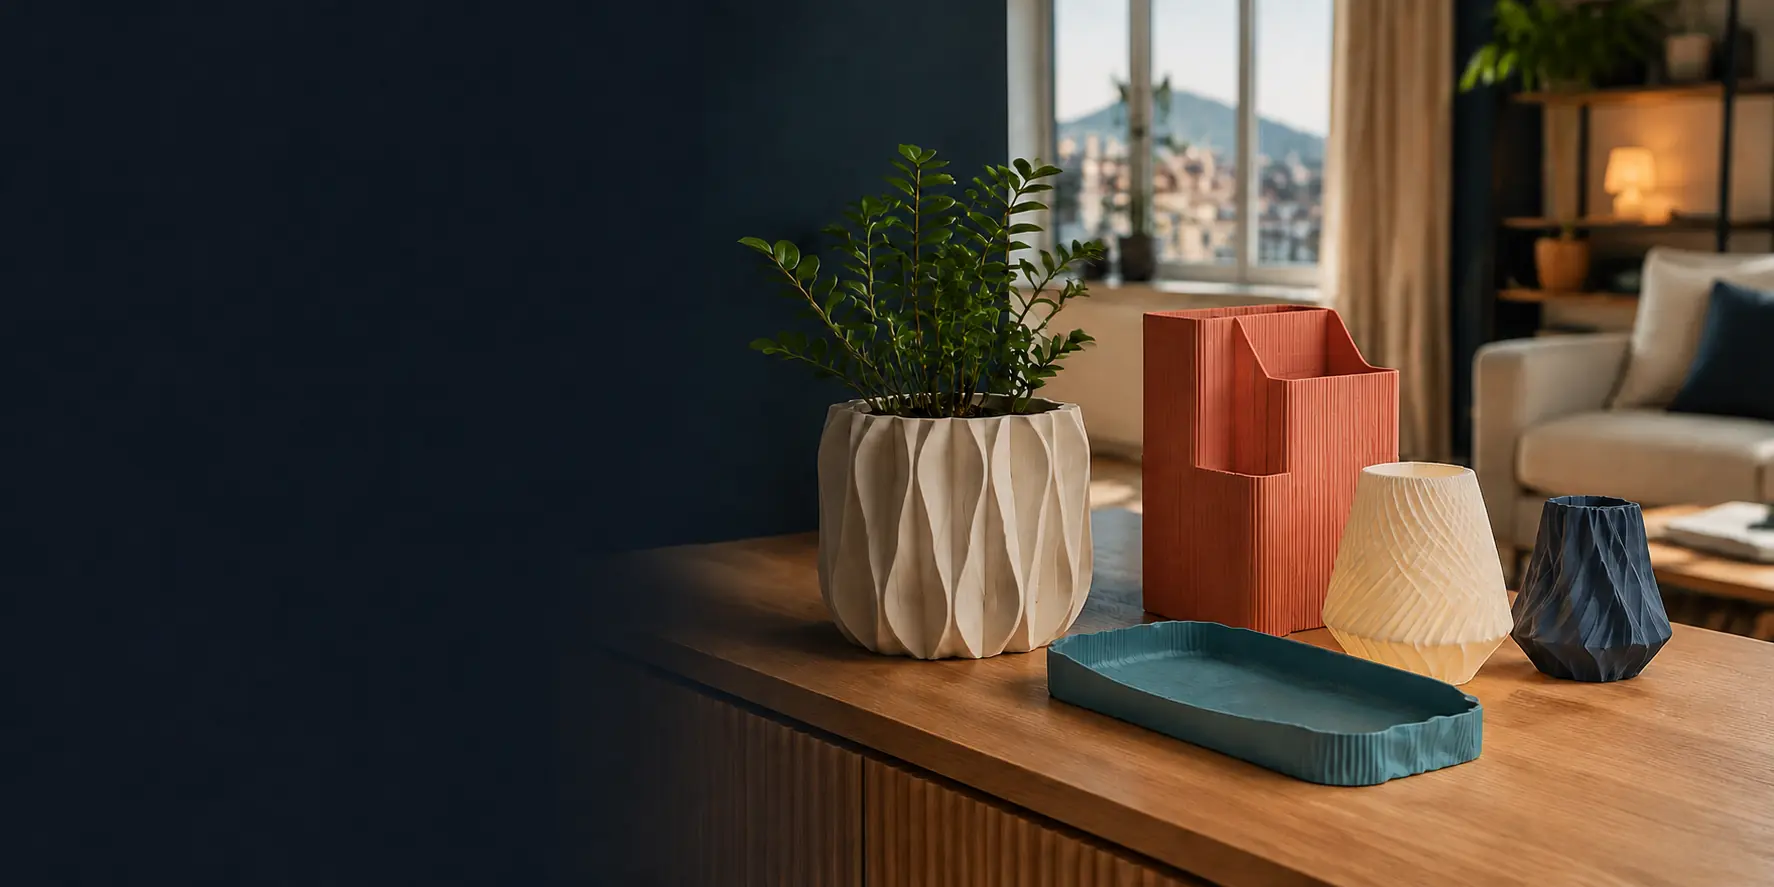
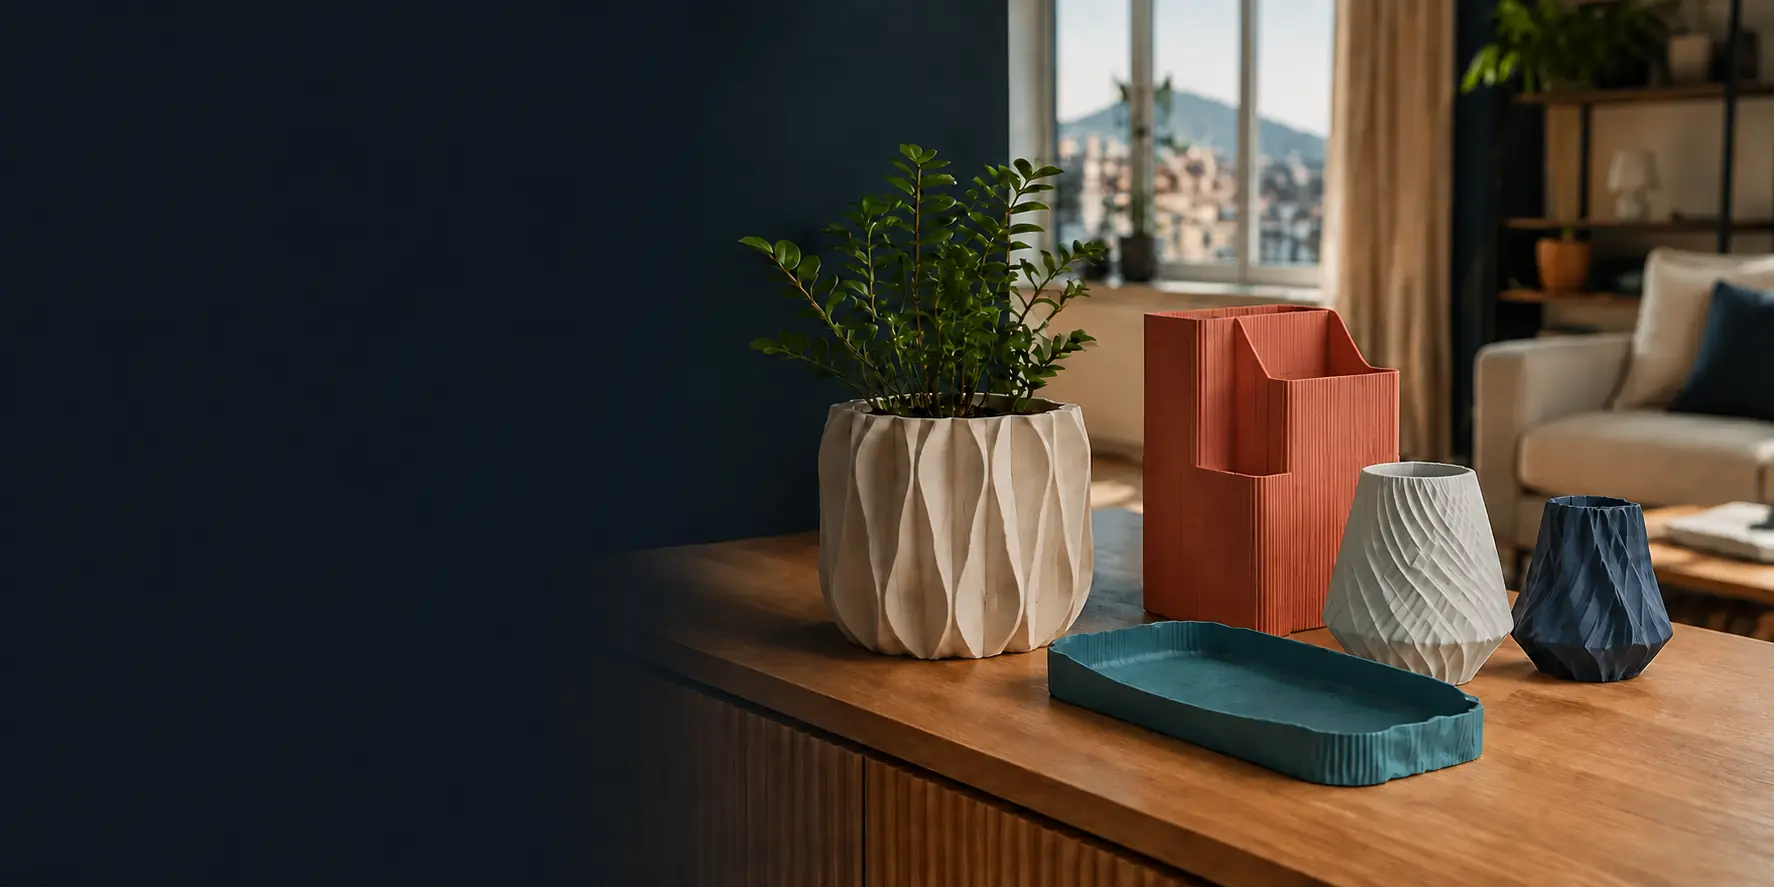
Add homepage category poster carousel

diff --git a/components/home/HomeCategoryHero.tsx b/components/home/HomeCategoryHero.tsx
@@ -2,55 +2,286 @@
 
 import Image from "next/image";
 import Link from "next/link";
-import { useId } from "react";
-import { ArrowRight } from "lucide-react";
+import { useCallback, useEffect, useId, useRef, useState } from "react";
+import { ArrowRight, ChevronLeft, ChevronRight } from "lucide-react";
 import { useLanguage } from "@/components/LanguageProvider";
 
-const featuredCategoryHref = "/shop?category=household";
+type CategoryPoster = {
+  slug: string;
+  image: string;
+  titleKa: string;
+  titleEn: string;
+};
+
+const categoryPosters: CategoryPoster[] = [
+  {
+    slug: "household",
+    image: "/homepage/household-category-hero.webp",
+    titleKa: "საყოფაცხოვრებო ნივთები ყოველდღიური ცხოვრებისთვის",
+    titleEn: "Household objects for everyday life",
+  },
+  {
+    slug: "art",
+    image: "/homepage/art-category-hero.webp",
+    titleKa: "ხელოვნება შენი სივრცის გასაცოცხლებლად",
+    titleEn: "Art to bring your space to life",
+  },
+  {
+    slug: "education",
+    image: "/homepage/education-category-hero.webp",
+    titleKa: "სასწავლო მოდელები აღმოჩენისა და სწავლისთვის",
+    titleEn: "Learning models for discovery and understanding",
+  },
+  {
+    slug: "fashion",
+    image: "/homepage/fashion-category-hero.webp",
+    titleKa: "აქსესუარები გამორჩეული სტილისთვის",
+    titleEn: "Accessories for a distinctive style",
+  },
+  {
+    slug: "hobbies-diy",
+    image: "/homepage/hobbies-diy-category-hero.webp",
+    titleKa: "ჰობისა და DIY იდეების გასაცოცხლებლად",
+    titleEn: "Bring hobby and DIY ideas to life",
+  },
+  {
+    slug: "miniatures",
+    image: "/homepage/miniatures-category-hero.webp",
+    titleKa: "მინიატიურები დიდი ისტორიებისთვის",
+    titleEn: "Miniatures for big stories",
+  },
+  {
+    slug: "props-cosplay",
+    image: "/homepage/props-cosplay-category-hero.webp",
+    titleKa: "რეკვიზიტები შენი პერსონაჟის გასაცოცხლებლად",
+    titleEn: "Props that bring your character to life",
+  },
+  {
+    slug: "tools",
+    image: "/homepage/tools-category-hero.webp",
+    titleKa: "პრაქტიკული ხელსაწყოები საქმის გასამარტივებლად",
+    titleEn: "Practical tools to make every task easier",
+  },
+  {
+    slug: "toys-games",
+    image: "/homepage/toys-games-category-hero.webp",
+    titleKa: "სათამაშოები მეტი ფანტაზიისა და გართობისთვის",
+    titleEn: "Toys and games for imaginative play",
+  },
+  {
+    slug: "generative-3d-model",
+    image: "/homepage/generative-3d-model-category-hero.webp",
+    titleKa: "გენერაციული 3D ფორმები უნიკალური სივრცისთვის",
+    titleEn: "Generative 3D forms for a unique space",
+  },
+  {
+    slug: "3d-printer",
+    image: "/homepage/3d-printer-category-hero.webp",
+    titleKa: "3D პრინტერის აქსესუარები უკეთესი ბეჭდვისთვის",
+    titleEn: "3D printer accessories for better printing",
+  },
+];
 
 export function HomeCategoryHero() {
   const { language } = useLanguage();
-  const headingId = useId();
+  const carouselId = useId();
+  const trackRef = useRef<HTMLUListElement>(null);
+  const activeIndexRef = useRef(0);
+  const requestedIndexRef = useRef<number | null>(null);
+  const [activeIndex, setActiveIndex] = useState(0);
   const georgian = language === "ka";
+  const activePoster = categoryPosters[activeIndex] ?? categoryPosters[0];
+  const activeTitle = georgian ? activePoster.titleKa : activePoster.titleEn;
+
+  const scrollToPoster = useCallback((index: number) => {
+    const track = trackRef.current;
+    if (!track) return;
+
+    const nextIndex = Math.max(0, Math.min(categoryPosters.length - 1, index));
+    const reduceMotion = window.matchMedia("(prefers-reduced-motion: reduce)").matches;
+    requestedIndexRef.current = nextIndex;
+    track.scrollTo({
+      left: nextIndex * track.clientWidth,
+      behavior: reduceMotion ? "auto" : "smooth",
+    });
+  }, []);
+
+  const moveByPoster = useCallback((direction: -1 | 1) => {
+    const currentIndex = requestedIndexRef.current ?? activeIndexRef.current;
+    scrollToPoster(currentIndex + direction);
+  }, [scrollToPoster]);
+
+  const updateActivePoster = useCallback(() => {
+    const track = trackRef.current;
+    if (!track || track.clientWidth === 0) return;
+
+    const nextIndex = Math.max(
+      0,
+      Math.min(categoryPosters.length - 1, Math.round(track.scrollLeft / track.clientWidth)),
+    );
+    activeIndexRef.current = nextIndex;
+    setActiveIndex(nextIndex);
+
+    const requestedIndex = requestedIndexRef.current;
+    if (
+      requestedIndex !== null
+      && Math.abs(track.scrollLeft - requestedIndex * track.clientWidth) < 2
+    ) {
+      requestedIndexRef.current = null;
+    }
+  }, []);
+
+  useEffect(() => {
+    const track = trackRef.current;
+    if (!track || typeof ResizeObserver === "undefined") return;
+
+    let previousWidth = track.clientWidth;
+    const observer = new ResizeObserver(() => {
+      const nextWidth = track.clientWidth;
+      if (nextWidth === 0 || nextWidth === previousWidth) return;
+
+      previousWidth = nextWidth;
+      requestedIndexRef.current = null;
+      track.scrollTo({
+        left: activeIndexRef.current * nextWidth,
+        behavior: "auto",
+      });
+    });
+
+    observer.observe(track);
+    return () => observer.disconnect();
+  }, []);
 
   return (
-    <section aria-labelledby={headingId}>
-      <Link
-        href={featuredCategoryHref}
-        aria-label={georgian ? "საყოფაცხოვრებო პროდუქტების ნახვა" : "Shop Household products"}
-        className="group relative block h-[380px] overflow-hidden bg-[#111622] text-white focus-visible:outline-none focus-visible:ring-2 focus-visible:ring-inset focus-visible:ring-hooma-secondary sm:h-[420px] lg:h-[480px]"
+    <section
+      aria-label={georgian ? "პროდუქტების კატეგორიები" : "Product categories"}
+      aria-roledescription={georgian ? "კარუსელი" : "carousel"}
+      className="relative bg-[#111622]"
+    >
+      <h1 className="sr-only">
+        {georgian ? "Hooma — 3D-დაბეჭდილი პროდუქტები" : "Hooma — 3D-printed products"}
+      </h1>
+      <ul
+        id={carouselId}
+        ref={trackRef}
+        onScroll={updateActivePoster}
+        onPointerDown={() => { requestedIndexRef.current = null; }}
+        onWheel={() => { requestedIndexRef.current = null; }}
+        className="hide-scrollbar flex snap-x snap-mandatory overflow-x-auto"
       >
-        <Image
-          src="/homepage/household-category-hero.webp"
-          alt=""
-          fill
-          priority
-          sizes="100vw"
-          className="object-cover object-[45%_center] transition duration-700 group-hover:scale-[1.015] sm:object-center xl:object-contain xl:object-right"
-        />
-        <span aria-hidden="true" className="absolute inset-0 bg-gradient-to-r from-[#0d1929]/95 via-[#0d1929]/80 to-[#0d1929]/50 sm:via-[#0d1929]/75 sm:to-[#0d1929]/5" />
-        <span aria-hidden="true" className="absolute inset-x-0 bottom-0 h-32 bg-gradient-to-t from-[#FFF1EA] via-[#FFF1EA]/35 to-transparent" />
+        {categoryPosters.map((poster, index) => {
+          const title = georgian ? poster.titleKa : poster.titleEn;
 
-        <div className="relative mx-auto flex h-full max-w-[1480px] items-center px-6 pb-12 sm:px-10 sm:pb-16 lg:px-14">
-          <div className="max-w-[19rem] sm:max-w-[36rem]">
-            <p className="text-[11px] font-semibold uppercase tracking-[0.22em] text-hooma-secondary sm:text-xs">
-              {georgian ? "რჩეული კატეგორია" : "Featured category"}
-            </p>
-            <h1 id={headingId} className="mt-3 text-3xl font-semibold leading-[1.08] tracking-tight text-white sm:text-4xl lg:text-5xl">
-              {georgian ? "საყოფაცხოვრებო ნივთები ყოველდღიური სივრცისთვის" : "Household objects for everyday spaces"}
-            </h1>
-            <p className="mt-4 max-w-lg text-sm leading-6 text-white/70 sm:text-base sm:leading-7">
-              {georgian
-                ? "დეკორი და პრაქტიკული ნივთები სახლისთვის — თითოეული მზადდება შენი შეკვეთისთვის."
-                : "Décor and practical objects for home — each made to order for you."}
-            </p>
-            <span className="mt-6 inline-flex items-center gap-2 rounded-full bg-white px-5 py-3 text-sm font-semibold text-hooma-text shadow-lg transition group-hover:bg-hooma-secondary group-focus-visible:bg-hooma-secondary">
-              {georgian ? "საყოფაცხოვრებო პროდუქტების ნახვა" : "Shop Household"}
-              <ArrowRight size={16} aria-hidden="true" />
-            </span>
-          </div>
+          return (
+            <li
+              key={poster.slug}
+              aria-label={`${index + 1} / ${categoryPosters.length}`}
+              aria-roledescription={georgian ? "სლაიდი" : "slide"}
+              aria-hidden={index !== activeIndex}
+              className="w-full shrink-0 snap-center"
+            >
+              <Link
+                href={`/shop?category=${poster.slug}`}
+                aria-label={title}
+                tabIndex={index === activeIndex ? 0 : -1}
+                className="group relative block h-[380px] overflow-hidden bg-[#111622] text-white focus-visible:outline-none focus-visible:ring-2 focus-visible:ring-inset focus-visible:ring-hooma-secondary sm:h-[420px] lg:h-[480px]"
+              >
+                <Image
+                  src={poster.image}
+                  alt=""
+                  fill
+                  priority={index === 0}
+                  sizes="100vw"
+                  className="object-cover object-[45%_center] transition duration-700 group-hover:scale-[1.015] sm:object-center xl:object-contain xl:object-right"
+                />
+                <span
+                  aria-hidden="true"
+                  className="absolute inset-0 bg-gradient-to-r from-[#0d1929]/95 via-[#0d1929]/80 to-[#0d1929]/50 sm:via-[#0d1929]/75 sm:to-[#0d1929]/5"
+                />
+                <span
+                  aria-hidden="true"
+                  className="absolute inset-x-0 bottom-0 h-32 bg-gradient-to-t from-[#FFF1EA] via-[#FFF1EA]/35 to-transparent"
+                />
+
+                <div className="relative mx-auto flex h-full max-w-[1480px] items-center px-6 pb-12 sm:px-10 sm:pb-16 lg:px-14">
+                  <div className="max-w-[19rem] sm:max-w-[38rem]">
+                    <h2 className="text-3xl font-semibold leading-[1.08] tracking-tight text-white sm:text-4xl lg:text-5xl">
+                      {title}
+                    </h2>
+                    <span
+                      aria-hidden="true"
+                      className="mt-6 hidden size-11 items-center justify-center rounded-full bg-white text-hooma-text shadow-lg transition group-hover:bg-hooma-secondary group-focus-visible:bg-hooma-secondary sm:inline-flex"
+                    >
+                      <ArrowRight size={18} />
+                    </span>
+                  </div>
+                </div>
+              </Link>
+            </li>
+          );
+        })}
+      </ul>
+
+      <span className="sr-only" aria-live="polite" aria-atomic="true">
+        {activeTitle} — {activeIndex + 1} / {categoryPosters.length}
+      </span>
+
+      <div className="pointer-events-none absolute inset-x-0 bottom-14 z-20 mx-auto flex max-w-[1480px] items-center justify-between px-4 sm:bottom-16 sm:px-6 lg:px-8">
+        <div className="pointer-events-auto flex gap-2">
+          <button
+            type="button"
+            onClick={() => moveByPoster(-1)}
+            disabled={activeIndex === 0}
+            aria-controls={carouselId}
+            aria-label={georgian ? "წინა კატეგორია" : "Previous category"}
+            className="inline-flex size-11 items-center justify-center rounded-full border border-white/20 bg-[#111622]/75 text-white shadow-lg backdrop-blur transition hover:bg-[#111622] focus-visible:outline-none focus-visible:ring-2 focus-visible:ring-hooma-secondary disabled:cursor-not-allowed disabled:opacity-35"
+          >
+            <ChevronLeft size={20} aria-hidden="true" />
+          </button>
+          <button
+            type="button"
+            onClick={() => moveByPoster(1)}
+            disabled={activeIndex === categoryPosters.length - 1}
+            aria-controls={carouselId}
+            aria-label={georgian ? "შემდეგი კატეგორია" : "Next category"}
+            className="inline-flex size-11 items-center justify-center rounded-full border border-white/20 bg-[#111622]/75 text-white shadow-lg backdrop-blur transition hover:bg-[#111622] focus-visible:outline-none focus-visible:ring-2 focus-visible:ring-hooma-secondary disabled:cursor-not-allowed disabled:opacity-35"
+          >
+            <ChevronRight size={20} aria-hidden="true" />
+          </button>
         </div>
-      </Link>
+
+        <div
+          aria-hidden="true"
+          className="pointer-events-auto rounded-full bg-[#111622]/70 px-3 py-2 text-xs font-semibold tabular-nums text-white shadow-lg backdrop-blur sm:hidden"
+        >
+          {activeIndex + 1} / {categoryPosters.length}
+        </div>
+
+        <div className="pointer-events-auto hidden items-center rounded-full bg-[#111622]/70 px-2 py-1 shadow-lg backdrop-blur sm:flex">
+          {categoryPosters.map((poster, index) => (
+            <button
+              key={poster.slug}
+              type="button"
+              onClick={() => scrollToPoster(index)}
+              aria-controls={carouselId}
+              aria-current={index === activeIndex ? "true" : undefined}
+              aria-label={
+                georgian
+                  ? `${poster.titleKa} — სლაიდზე გადასვლა`
+                  : `Go to ${poster.titleEn}`
+              }
+              className="inline-flex size-6 items-center justify-center rounded-full focus-visible:outline-none focus-visible:ring-2 focus-visible:ring-hooma-secondary"
+            >
+              <span
+                aria-hidden="true"
+                className={`h-2 rounded-full transition-all ${
+                  index === activeIndex ? "w-4 bg-hooma-secondary" : "w-2 bg-white/45 hover:bg-white/75"
+                }`}
+              />
+            </button>
+          ))}
+        </div>
+      </div>
     </section>
   );
 }
